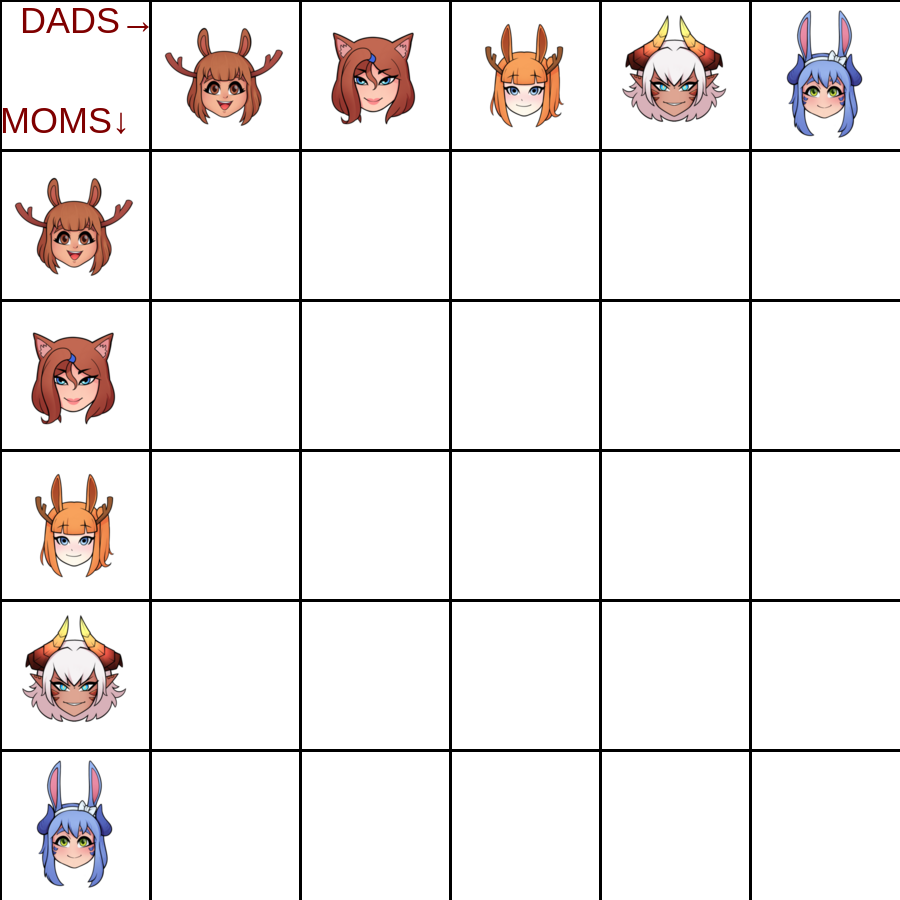
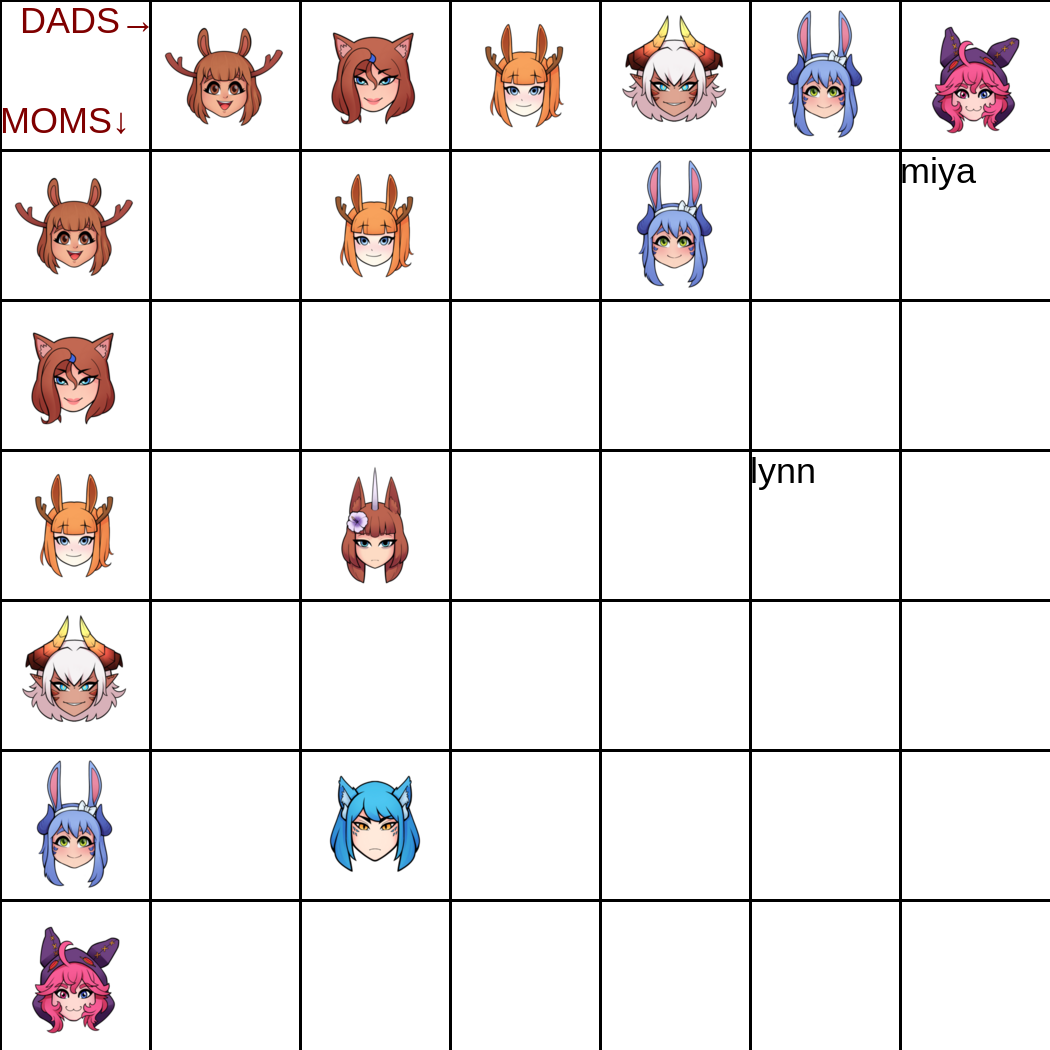
some features

Changed region(s): [[0.0, 0.0, 1.0, 1.0]]

diff --git a/maketable.py b/maketable.py
@@ -17,22 +17,12 @@ for filename in os.listdir(folder_path):
         # Load the image using Pillow and store it in the dictionary
         images[name] = Image.open(os.path.join(folder_path, filename))
 
-# Create a new image for the table
-table_width = 6 * OC_SIZE
-table_height = 6 * OC_SIZE
-table_image = Image.new('RGB', (table_width, table_height), (255, 255, 255))
+names = ['lea', 'kazue', 'karin', 'aedus', 'aoife', 'myou']
 
-# Paste the oc images onto the table
-# pasteat('lea', 1, 0, table_image, images)
-# pasteat('lea', 0, 1, table_image, images)
-# pasteat('kazue', 2, 0, table_image, images)
-# pasteat('kazue', 0, 2, table_image, images)
-# pasteat('karin', 3, 0, table_image, images)
-# pasteat('karin', 0, 3, table_image, images)
-# pasteat('tohka', 4, 0, table_image, images)
-# pasteat('tohka', 0, 4, table_image, images)
-# pasteat('yuria', 5, 0, table_image, images)
-# pasteat('yuria', 0, 5, table_image, images)
+# Create a new image for the table
+table_width = len(names) * OC_SIZE + OC_SIZE
+table_height = len(names) * OC_SIZE + OC_SIZE
+table_image = Image.new('RGB', (table_width, table_height), (255, 255, 255))
 
 
 # Draw a grid on the image
@@ -50,7 +40,9 @@ draw.text((0,100), "MOMS↓", font=font, fill=(127,0,0))
 draw.text((20,0), "DADS→", font=font, fill=(127,0,0))
 
 # Draw the images or names onto the table
-for i, name in enumerate(['lea', 'kazue', 'karin', 'aedus', 'aoife']):
+
+rollcall = enumerate(names)
+for i, name in rollcall:
     x = (i + 1) * grid_step 
     y = 0 * grid_step 
     try:
@@ -63,6 +55,20 @@ for i, name in enumerate(['lea', 'kazue', 'karin', 'aedus', 'aoife']):
     except KeyError:
         # If the image doesn't exist, draw the name instead
         draw.text((y, x), name, font=font, fill=(0, 0, 0))
+
+q = [('sumire', 'karin', 'kazue'),
+    ('aoko', 'aoife', 'kazue'),
+    ('karin', 'lea', 'kazue'),
+    ('aoife', 'lea', 'aedus'),
+    ('lynn', 'karin', 'aoife'),
+    ('miya', 'lea', 'myou')]
+for p in q:
+    childpos = (names.index(p[2]) * grid_step + grid_step, names.index(p[1]) * grid_step + grid_step)
+    try:
+        table_image.paste(images[p[0]], childpos, images[p[0]])
+    except KeyError:
+        # If the image doesn't exist, draw the name instead
+        draw.text(childpos, p[0], font=font, fill=(0, 0, 0))
 
 # Save the table image to a file
 table_image.save('board.png')
